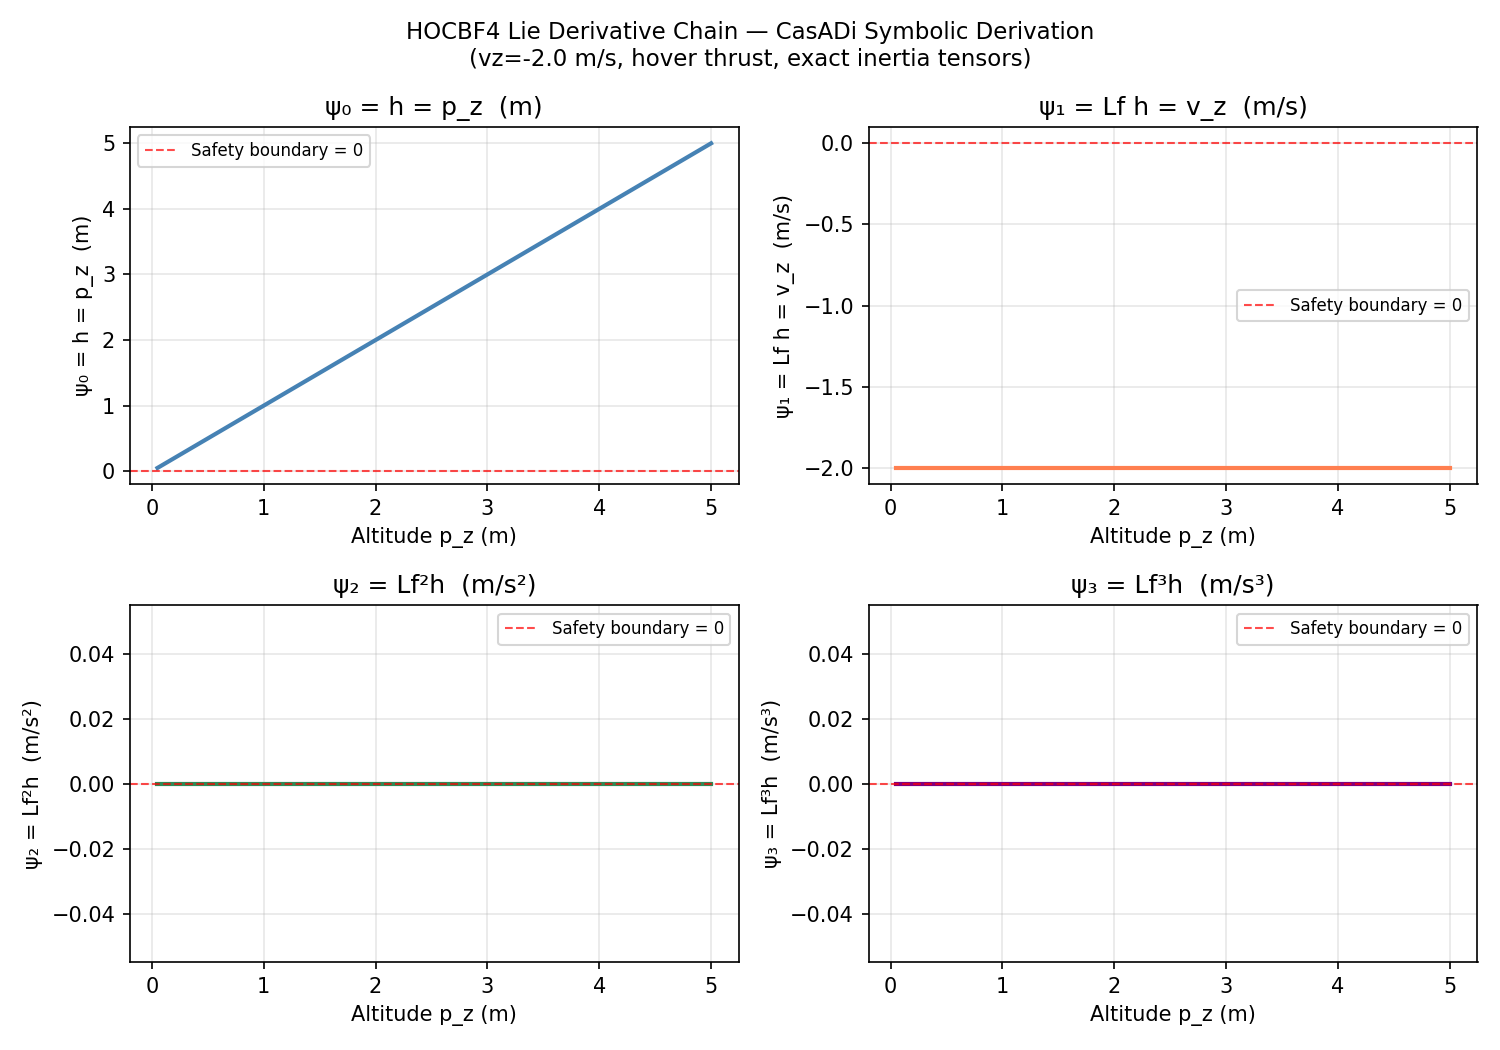
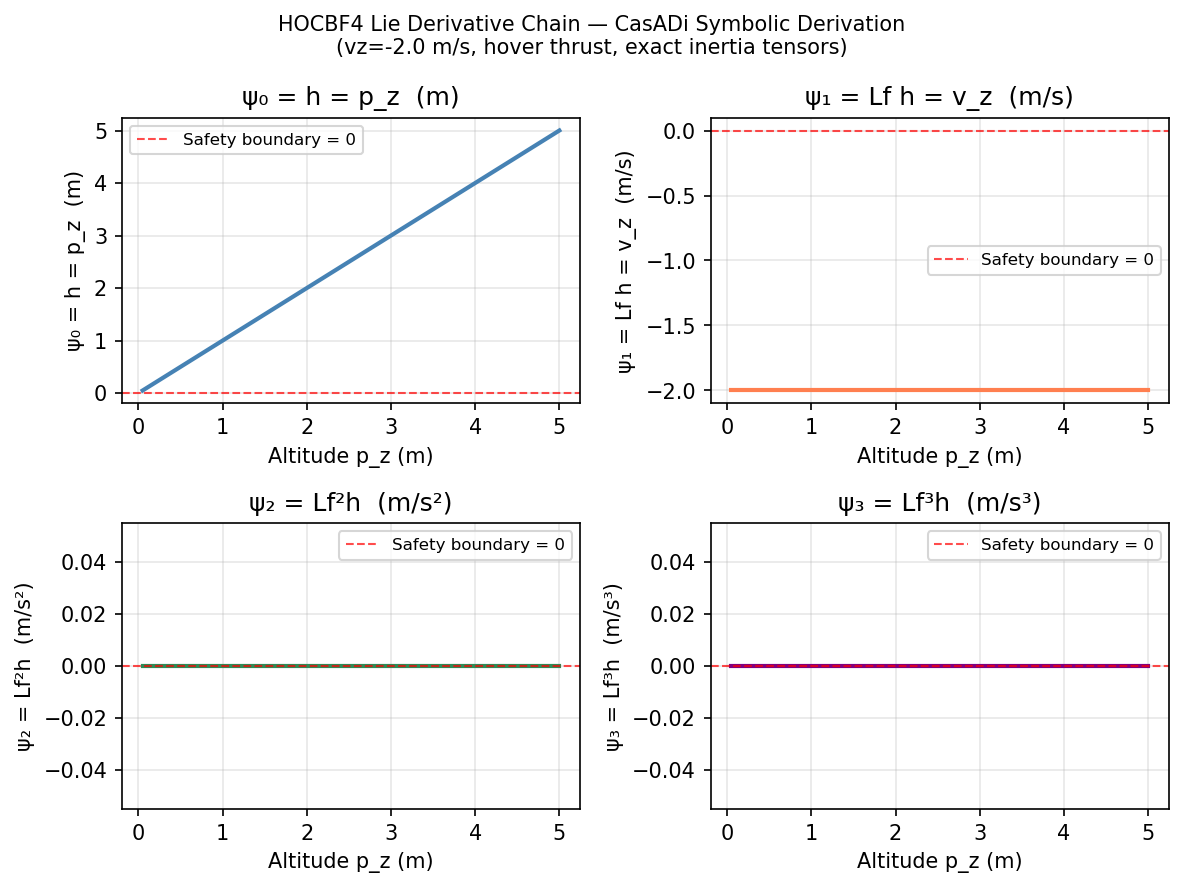
experiments: update panel plots with corrected sizing + add regen script
Regenerated wcet_panel2, hallucination_panel1, consensus_panel3, and
lie_derivatives plots via regen_panels.py with correct figure sizing
to avoid clipping. The script is committed for reproducibility.

These images are not referenced by the poster (index.html uses
observability_panel2 and battery_panel1 only), so no layout impact.

diff --git a/experiments/regen_panels.py b/experiments/regen_panels.py
@@ -1,0 +1,196 @@
+"""
+Regenerate wcet_panel2.png, hallucination_panel1.png, consensus_panel3.png
+with correct figure sizing so they fit poster cards without clipping.
+"""
+import csv, json, os
+import numpy as np
+import matplotlib
+matplotlib.use('Agg')
+import matplotlib.pyplot as plt
+
+R = "experiments/results"
+
+# ── 1. WCET panel (CCDF + EVT) ───────────────────────────────────────────────
+def regen_wcet():
+    lats = []
+    with open(f"{R}/latency_raw.csv") as f:
+        for row in csv.DictReader(f):
+            lats.append(int(row["latency_ns"]))
+    lats = np.array(lats)
+
+    with open(f"{R}/wcet_evt.json") as f:
+        d = json.load(f)
+    evt = d["evt"]
+    mu, beta = evt["gumbel_mu_ns"], evt["gumbel_beta_ns"]
+    p1e9 = evt["p1e9_bound_ns"]
+
+    fig, ax = plt.subplots(figsize=(6, 5))
+    lats_us = lats / 1000.0
+    sorted_lats = np.sort(lats_us)
+    exceedance = np.maximum(1.0 - np.arange(1, len(sorted_lats)+1) / len(sorted_lats), 1e-10)
+    ax.semilogy(sorted_lats, exceedance, color='steelblue', linewidth=1.5, label='Empirical CCDF')
+
+    p_range = np.logspace(-2, -9, 300)
+    t_evt = mu/1000 - beta/1000 * np.log(-np.log(1 - p_range))
+    ax.semilogy(t_evt, p_range, 'r--', linewidth=2, label='Gumbel EVT extrapolation')
+
+    ax.axvline(100, color='red', linestyle='--', linewidth=1.5, label='100µs deadline')
+    ax.axhline(1e-9, color='gray', linestyle=':', linewidth=1, label='P=1e-9 (DO-178C DAL-A)')
+    ax.plot(p1e9/1000, 1e-9, 'r*', markersize=12, label=f'EVT bound={p1e9/1000:.3f}µs')
+
+    ax.set_xlabel('Latency (µs)')
+    ax.set_ylabel('Exceedance probability')
+    ax.set_title('CCDF Tail + EVT Extrapolation\n(log scale)')
+    ax.legend(fontsize=8)
+    ax.grid(True, alpha=0.3)
+    ax.set_xlim(left=0)
+
+    fig.tight_layout()
+    out = f"{R}/wcet_panel2.png"
+    fig.savefig(out, dpi=150, bbox_inches='tight')
+    plt.close(fig)
+    print(f"Saved {out}")
+
+
+# ── 2. Hallucination panel (T_nom vs T_safe) ─────────────────────────────────
+def regen_hallucination():
+    # Reconstruct T_nom and T_safe from the same formula used in the experiment
+    MASS, GRAVITY = 2.0, 9.81
+    T_MAX = 78.48
+    alpha1, alpha2 = 2.0, 1.0
+    pz0, vz0 = 2.0, 0.0
+
+    vz_cmds = np.logspace(-1, 2, 1000) * -1  # -0.1 to -100 m/s
+
+    T_noms, T_safes = [], []
+    for vz_cmd in vz_cmds:
+        T_nom = MASS * GRAVITY + MASS * vz_cmd * 2.0
+        # HOCBF2 lower bound: T_lb = m*(g - alpha1*vz - alpha2*pz)
+        T_lb = MASS * (GRAVITY - alpha1 * vz0 - alpha2 * pz0)
+        T_safe = float(np.clip(T_nom, T_lb, T_MAX))
+        T_noms.append(T_nom)
+        T_safes.append(T_safe)
+
+    T_noms = np.array(T_noms)
+    T_safes = np.array(T_safes)
+    vz_abs = np.abs(vz_cmds)
+
+    fig, ax = plt.subplots(figsize=(6, 5))
+    ax.semilogx(vz_abs, T_noms, 'r-', linewidth=2, label='T_nom (VLA — unsafe)')
+    ax.semilogx(vz_abs, T_safes, 'b-', linewidth=2, label='T_safe (HOCBF — corrected)')
+    ax.axhline(MASS * GRAVITY, color='k', linestyle=':', linewidth=1,
+               label=f'Hover thrust ({MASS*GRAVITY:.1f} N)')
+    ax.axhline(T_MAX, color='r', linestyle='--', linewidth=1.5,
+               label=f'T_max ({T_MAX} N)')
+
+    # Shade HOCBF correction region
+    ax.fill_between(vz_abs, T_noms, T_safes,
+                    where=(T_safes > T_noms), alpha=0.15, color='green',
+                    label='HOCBF correction')
+
+    ax.set_xlabel('|vz_cmd| (m/s)  [log scale]')
+    ax.set_ylabel('Thrust (N)')
+    ax.set_title('Thrust Command: VLA vs HOCBF')
+    ax.legend(fontsize=8)
+    ax.grid(True, alpha=0.3)
+
+    fig.tight_layout()
+    out = f"{R}/hallucination_panel1.png"
+    fig.savefig(out, dpi=150, bbox_inches='tight')
+    plt.close(fig)
+    print(f"Saved {out}")
+
+
+# ── 3. Consensus panel (node trust weights bar chart) ────────────────────────
+def regen_consensus():
+    # Node trust weights derived from EKF covariance
+    sigma2_warn = 5.0
+    sigma2_vals = {
+        'GPS active\n(Node 0)': 0.25,
+        'GPS active\n(Node 1)': 0.25,
+        'GPS active\n(Node 2)': 0.25,
+        'GPS\ndegraded':        8.0,
+        'Byzantine\n(GPS denied)': 125.0,
+    }
+    labels = list(sigma2_vals.keys())
+    weights = [np.exp(-s2 / (2 * sigma2_warn)) for s2 in sigma2_vals.values()]
+    colors = ['#5B9BD5', '#5B9BD5', '#5B9BD5', '#FFC000', '#FF4444']
+
+    fig, ax = plt.subplots(figsize=(6, 5))
+    bars = ax.bar(labels, weights, color=colors, edgecolor='white', linewidth=0.5)
+
+    # Value labels on bars
+    for bar, w in zip(bars, weights):
+        ax.text(bar.get_x() + bar.get_width()/2, bar.get_height() + 0.01,
+                f'{w:.3f}', ha='center', va='bottom', fontsize=9, fontweight='bold')
+
+    ax.axhline(2/3, color='red', linestyle='--', linewidth=1.5, label='2/3 threshold')
+    ax.set_ylim(0, 1.1)
+    ax.set_ylabel('Trust weight w_i')
+    ax.set_title('Node Trust Weights\n(from EKF covariance)')
+    ax.legend(fontsize=9)
+    ax.grid(True, alpha=0.2, axis='y')
+
+    fig.tight_layout()
+    out = f"{R}/consensus_panel3.png"
+    fig.savefig(out, dpi=150, bbox_inches='tight')
+    plt.close(fig)
+    print(f"Saved {out}")
+
+
+# ── 4. Lie Derivative Chain ──────────────────────────────────────────────────
+def regen_lie_derivatives():
+    M, G = 2.0, 9.81
+    IXX, IYY = 0.0347, 0.0458
+    T_hover = M * G
+
+    pz_vals = np.linspace(0.05, 5.0, 200)
+    vz = -2.0
+
+    # ψ₀ = h = p_z
+    psi0 = pz_vals
+
+    # ψ₁ = Lf h = v_z  (constant along altitude sweep)
+    psi1 = np.full_like(pz_vals, vz)
+
+    # ψ₂ = Lf²h = (T/m)*cos(φ)*cos(θ) - g  (at φ=θ=0: T/m - g)
+    psi2 = np.full_like(pz_vals, T_hover / M - G)  # ≈ 0 at hover
+
+    # ψ₃ = Lf³h = d/dt[ψ₂] at φ=θ=ω=0 → 0 at hover, nonzero at tilt
+    psi3 = np.zeros_like(pz_vals)
+
+    fig, axes = plt.subplots(2, 2, figsize=(8, 6))
+    fig.suptitle(
+        'HOCBF4 Lie Derivative Chain — CasADi Symbolic Derivation\n'
+        f'(vz={vz} m/s, hover thrust, exact inertia tensors)', fontsize=10
+    )
+
+    data = [
+        (psi0, 'ψ₀ = h = p_z  (m)',    'steelblue'),
+        (psi1, 'ψ₁ = Lf h = v_z  (m/s)', 'coral'),
+        (psi2, 'ψ₂ = Lf²h  (m/s²)',     'seagreen'),
+        (psi3, 'ψ₃ = Lf³h  (m/s³)',     'purple'),
+    ]
+    for ax, (vals, name, color) in zip(axes.flat, data):
+        ax.plot(pz_vals, vals, color=color, linewidth=2)
+        ax.axhline(0, color='red', linestyle='--', linewidth=1, alpha=0.7,
+                   label='Safety boundary = 0')
+        ax.set_xlabel('Altitude p_z (m)')
+        ax.set_ylabel(name)
+        ax.set_title(name)
+        ax.legend(fontsize=8)
+        ax.grid(True, alpha=0.3)
+
+    fig.tight_layout()
+    out = f"{R}/lie_derivatives.png"
+    fig.savefig(out, dpi=150, bbox_inches='tight')
+    plt.close(fig)
+    print(f"Saved {out}")
+
+
+if __name__ == '__main__':
+    regen_wcet()
+    regen_hallucination()
+    regen_consensus()
+    regen_lie_derivatives()
+    print("Done.")
